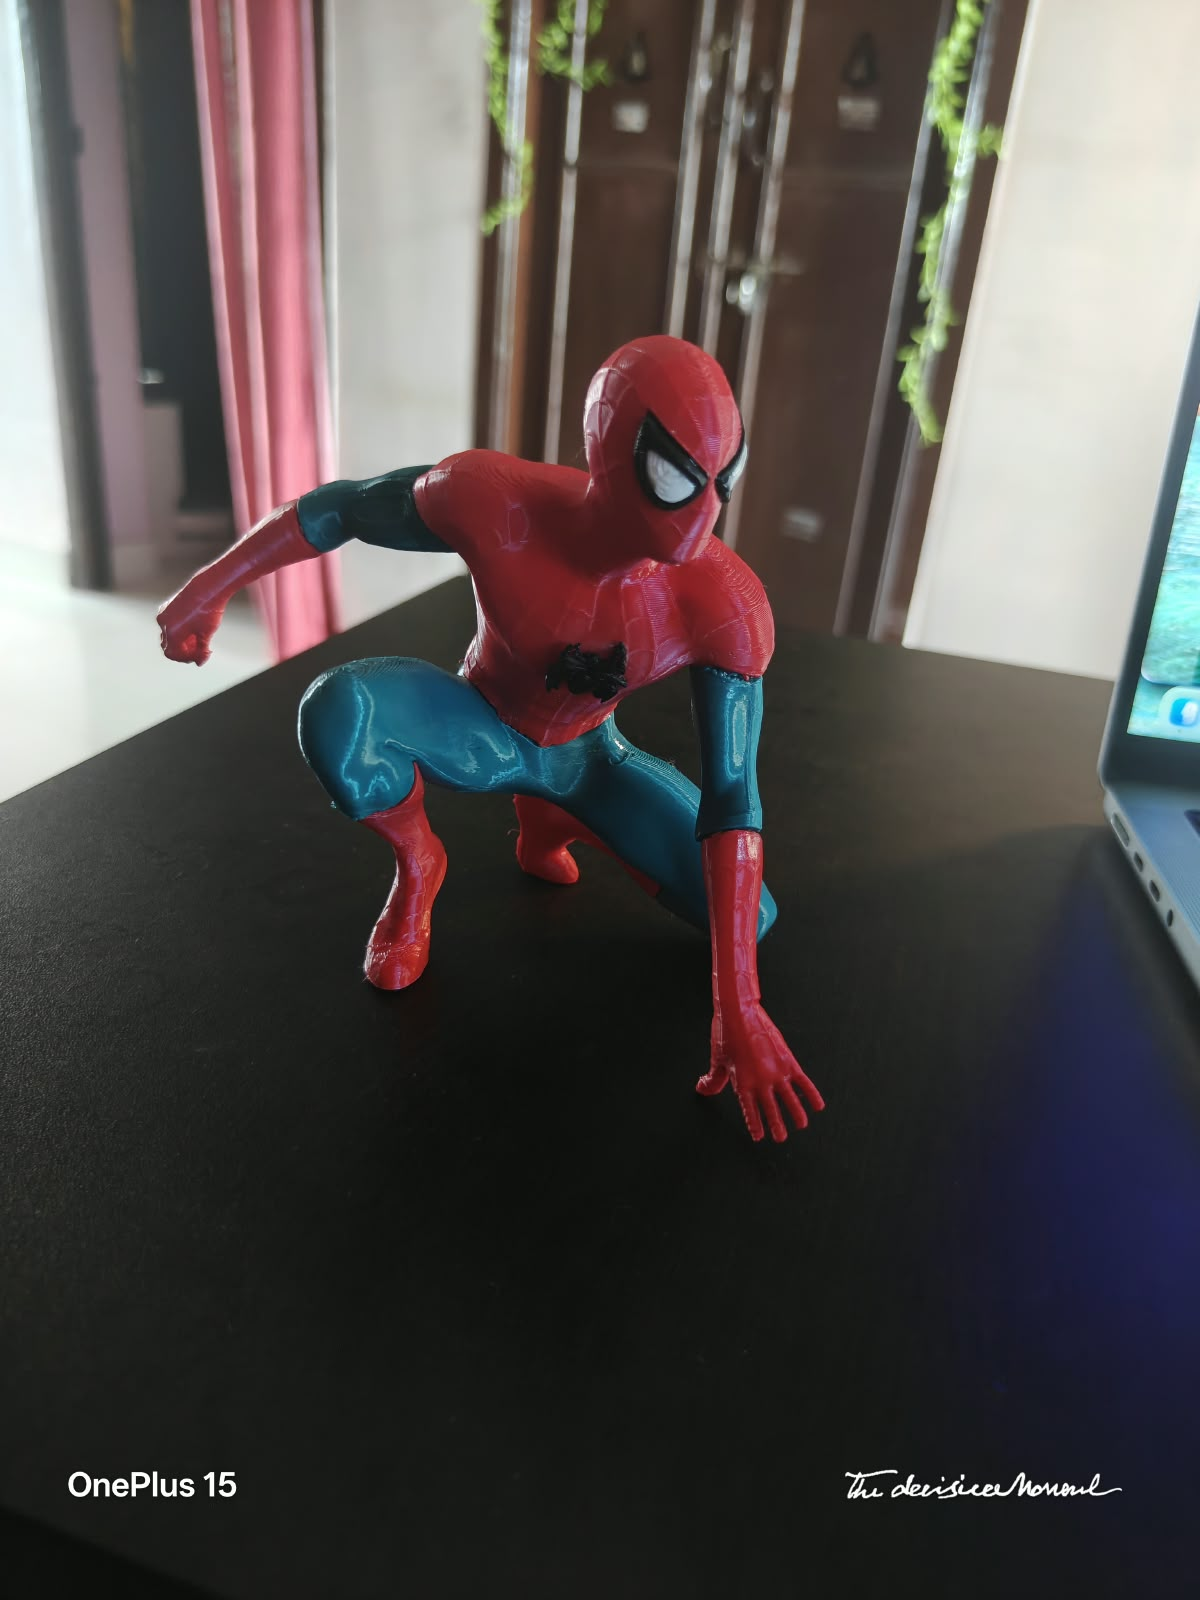
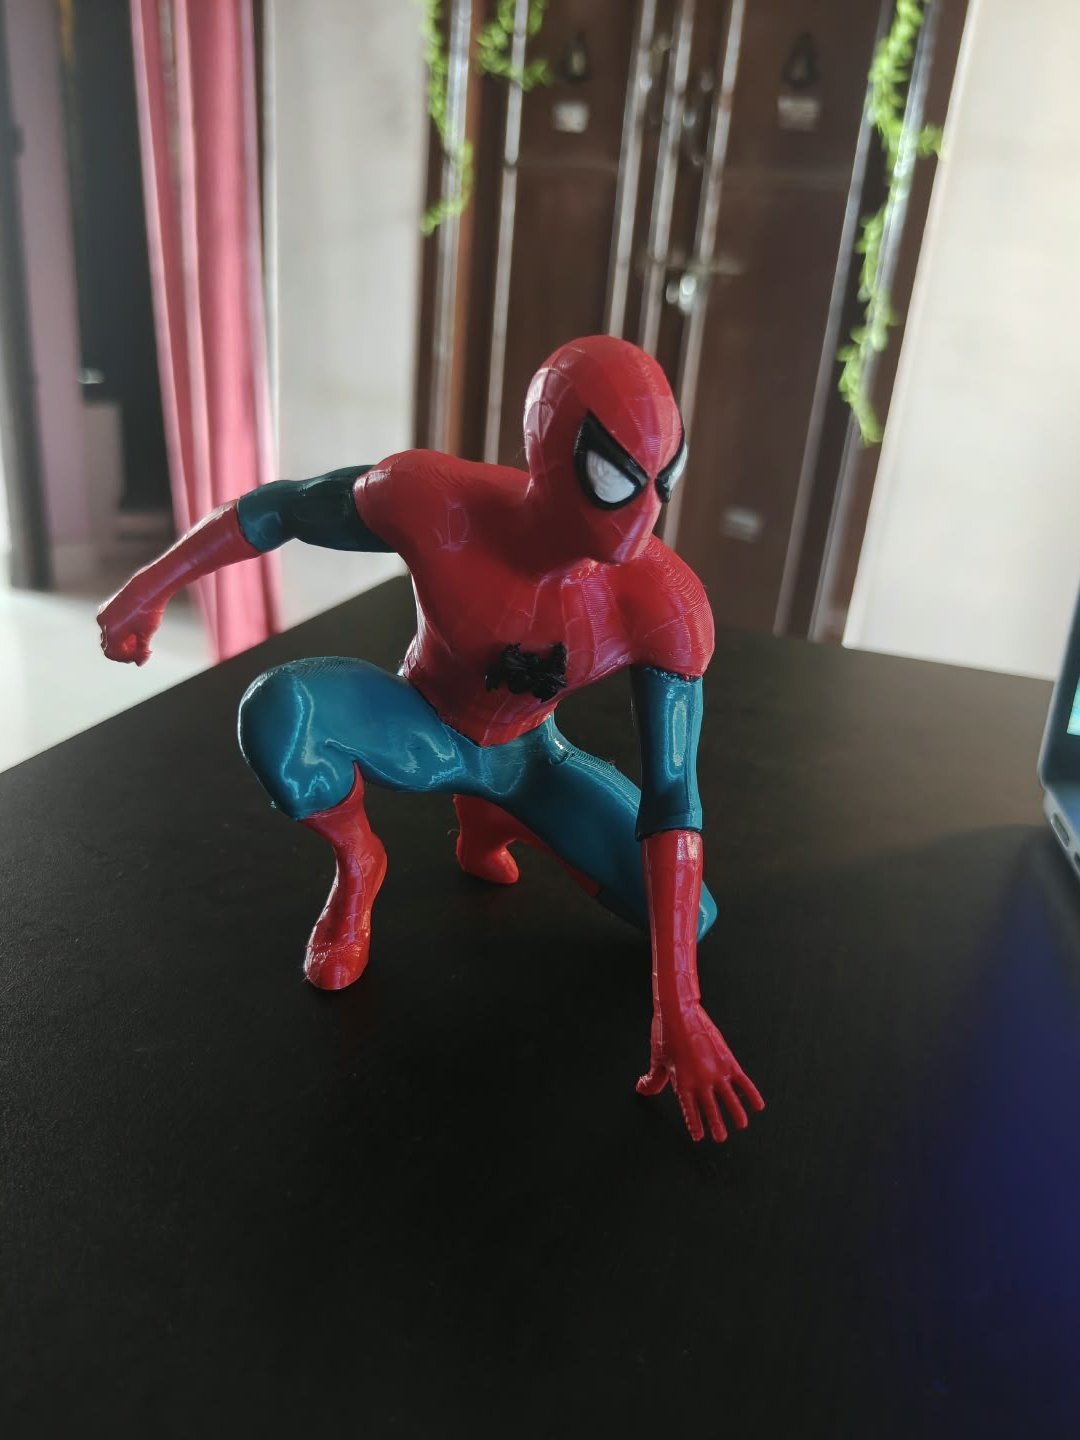
Hero: no horizontal scrolling anywhere
The three photos were a snap carousel. Horizontal scrolling was not wanted, so
they now fit the width instead: the two figurines abreast and the wall art across
the foot, 462px in total on a 390px phone. `overflow: visible` is stated rather
than left to the default, because that is the property whose absence would
quietly bring the scroller back.

The check follows the requirement. hero-geometry.mjs asserted the PAGE did not
scroll sideways, which the carousel passed - it scrolled INSIDE a page that did
not, which was exactly the thing being objected to. It now asserts the strip
itself does not scroll either, in both engines.

Removing the scroll also removed the reason for most of the special-casing. The
two figurines could not share a shape while spiderman_crouch.jpg needed a wider
card to hide the "OnePlus 15" watermark baked into its bottom 9%; side by side
that would have left one card taller than the other. So the watermark is cropped
out of the file instead - bottom 10% off, sides trimmed to hold 3:4 exactly,
re-encoded at quality 85 so it lands at 116KB against the original's 119KB.

That is the better fix regardless of layout: the watermark was on a product photo
everywhere it appeared, not just here, and cropping it once removes an entire
class of per-card CSS. Both figurines are now exactly 3:4 and stand identical.

Also recovers work that was orphaned when #14 merged before its second commit
[…]

diff --git a/public/assets/css/style.css b/public/assets/css/style.css
@@ -2879,72 +2879,58 @@ a.product-name:focus-visible { outline: 2px solid var(--orange); outline-offset:
 }
 
 /* ===== HERO PHOTOS ON SMALL SCREENS =====
-   THE PROBLEM, MEASURED. The mobile grid handed portrait photos landscape tiles:
-   the feature tile came out 359x169 (2.12:1) against a 3:4 photo, so it showed
-   35% of the subject — ribs, with the head and tail gone — and the two thumbs 52%
-   each at 174px wide. No object-position value fixes that; a portrait photo in a
-   landscape box is cropped by definition, so the box had to change.
+   NOTHING HERE SCROLLS SIDEWAYS. This was a snap carousel; horizontal scrolling
+   was not wanted, so the three photos are laid out to fit the width instead.
+   `overflow: visible` is stated rather than left to the default, because that is
+   the property whose absence would quietly bring the scroller back.
 
-   CARDS TAKE THE SHAPE OF THEIR PHOTO. Not a shared 3:4: the three hero products
-   are not all the same shape. Batman and Spider-Man are 3:4 portraits; the corner
-   staircase is wall art photographed 1.64 LANDSCAPE, and there is no portrait
-   version of it. Forcing a common ratio would cut 54% off the sides of that one —
-   the same failure as before, rotated. A fixed height with automatic width lets
-   each be whole, and means any future swap works whatever shape it arrives in.
+   The history is worth keeping, because the shape of the fix follows from it.
+   These tiles were originally landscape and the photos portrait, so the feature
+   card showed 35% of a dinosaur — ribs, head and tail gone — and the two thumbs
+   52% each at 174px wide. A portrait photo in a landscape box is cropped by
+   definition, so what changed was the box.
 
-   The links inside are focusable, so a keyboard reaches every card and the browser
-   scrolls each into view. That is why the scroller takes no tabindex of its own —
-   it would add a stop that does nothing. */
+   EVERY CARD STATES ITS RATIO. It must not be inferred from the image. Card
+   width:auto with an image at width:auto/height:100% asks the engine "how wide is
+   this picture at this height", and engines disagree: Chromium answered from the
+   aspect ratio, WebKit from the image's natural 1200px, which produced a card
+   half again too wide and a portrait cropped top and bottom — on every iPhone,
+   invisible to a developer in Chromium. test/browser/hero-geometry.mjs now fails
+   the build when the two engines disagree.
+
+   Two portraits abreast and the landscape piece across the foot. That grouping is
+   not decorative: the two figurines are 3:4 and the corner staircase is 1.64 wall
+   art with no portrait version, so a single shared shape would have to crop one
+   of them badly. */
 @media (max-width: 1024px) {
   .hero-visual {
-    display: flex;
-    /* Fixed height, automatic widths — this is what lets the cards differ. */
-    height: clamp(290px, 78vw, 400px);
-    width: auto;
-    max-width: none;
-    /* Full-bleed past the section's 4% padding so a card can sit half off-screen
-       and read as "there is more this way". scroll-padding realigns the snap. */
-    margin: 2.5rem -4% 0;
-    padding: 0 4% 0.6rem;
+    display: grid;
+    grid-template-columns: 1fr 1fr;
+    grid-template-rows: auto auto;
     gap: 0.7rem;
-    overflow-x: auto;
-    overscroll-behavior-x: contain;
-    scroll-snap-type: x mandatory;
-    scroll-padding-left: 4%;
-    -webkit-overflow-scrolling: touch;
-    scrollbar-width: none;
+    width: 100%;
+    max-width: 520px;
+    height: auto;
+    margin: 2.5rem auto 0;
+    padding: 0;
+    /* Said out loud: no scroller, in either axis. */
+    overflow: visible;
   }
-  .hero-visual::-webkit-scrollbar { display: none; }
 
-  /* EVERY CARD STATES ITS RATIO. It must not be inferred from the image.
-     `width: auto` on the card plus `width: auto; height: 100%` on the image asks
-     the engine "how wide is this picture at this height", and engines disagree:
-     Chromium answers from the aspect ratio and gives a 221px card, WebKit takes
-     the max-content contribution from the image's natural 1200px, hits the
-     max-width below, and produces a 335px card at 295px tall — a 3:4 portrait
-     `cover`-cropped top and bottom. Which is the bug this whole layout exists to
-     prevent, reappearing only on the engine every iPhone uses.
-     Stating the ratio makes the width arithmetic, not a negotiation. */
   .hero-shot {
-    flex: 0 0 auto;
-    height: 100%;
-    width: auto;
+    width: 100%;
+    height: auto;
+    /* Both figurines are exactly 3:4, so they stand the same height with no
+       ragged edge and no compromise ratio that crops one to suit the other. */
     aspect-ratio: 3 / 4;
-    /* Cannot bind now that width is derived from height, but kept as a floor in
-       case a future card is given a very wide ratio. */
-    max-width: 86vw;
-    scroll-snap-align: start;
     border-radius: 16px;
     overflow: hidden;
   }
 
-  /* The desktop grid placement and its two tile treatments no longer apply —
-     every card is the same kind of card now, just not the same size. */
+  /* The desktop grid placement and its two tile treatments do not apply here. */
   .hero-img-main,
   .hero-img-small { grid-column: auto; grid-row: auto; }
-  /* Fills the card, which now has a stated shape. `cover` in a box that matches
-     the picture's own ratio crops nothing — the card is doing the work, not the
-     image's intrinsic size. */
+
   .hero-img-main img,
   .hero-img-small img {
     width: 100%;
@@ -2954,55 +2940,27 @@ a.product-name:focus-visible { outline: 2px solid var(--orange); outline-offset:
     border-radius: 16px;
   }
 
-  /* Spider-Man alone carries a baked-in "OnePlus 15" watermark and signature
-     across the bottom ~9% of the frame. Batman and the staircase do not — checked
-     on the files, not assumed — so this is scoped to the one card that needs it
-     rather than cropping 15% off all three and taking Batman's feet with it.
-     Desktop never needed this: its tiles crop that band away already.
-     115% height against a clipped card sheds the bottom 13%, which clears the
-     watermark and makes this card a little wider than the other portrait. */
-  /* 0.86 rather than 0.75: a hair wider than the picture, so `cover` sheds 13%
-     of the height. Anchored to the top, that 13% comes off the bottom, which is
-     where the watermark is. Expressed as the card's shape for the same reason as
-     above — a scaled image would put the sizing back in the engine's hands. */
-  .hero-shot[data-hero="spiderman_crouch.jpg"] { aspect-ratio: 0.86; }
-  .hero-shot[data-hero="spiderman_crouch.jpg"] img { object-position: 50% 0; }
-
-  /* The landscape card is width-driven, not height-driven. At full strip height a
-     1.64 photo wants 484px on a 390px phone, so the shared max-width clamped it
-     and cropped 30% off the sides — the exact thing this layout exists to avoid.
-     Giving it a width and its own ratio lets it shrink in HEIGHT instead, which
-     costs nothing, and centring it stops the shorter card sitting oddly on the
-     baseline. */
+  /* Wall art, photographed landscape. Given the full width rather than squeezed
+     into a portrait cell, where it would lose 54% of its sides — and the
+     composition is the product. */
   .hero-shot[data-hero="poster_corner_staircase_v1.jpg"] {
-    width: 86vw;
-    max-width: 520px;
-    height: auto;
+    grid-column: 1 / -1;
     aspect-ratio: 1.64;
-    align-self: center;
-  }
-  .hero-shot[data-hero="poster_corner_staircase_v1.jpg"] img {
-    width: 100%;
-    height: 100%;
   }
 
   /* One caption size — there is no longer a big tile and a small one. */
-  .hero-shot-meta { border-radius: 0 0 16px 16px; padding: 1.5rem 0.85rem 0.75rem; }
-  .hero-img-small .hero-shot-meta { padding-top: 1.5rem; }
-  .hero-img-small .hero-shot-name { font-size: 0.82rem; -webkit-line-clamp: 2; }
-  .hero-img-small .hero-shot-price { font-size: 0.86rem; }
+  .hero-shot-meta { border-radius: 0 0 16px 16px; padding: 1.4rem 0.8rem 0.7rem; }
+  .hero-img-small .hero-shot-meta { padding-top: 1.4rem; }
+  .hero-img-small .hero-shot-name { font-size: 0.78rem; -webkit-line-clamp: 2; }
+  .hero-img-small .hero-shot-price { font-size: 0.82rem; }
 
   .hero-printer-badge {
     top: 8px; right: 8px;
-    font-size: 0.66rem;
-    padding: 0.3rem 0.6rem;
+    font-size: 0.64rem;
+    padding: 0.28rem 0.55rem;
   }
 }
 
-/* Desktop keeps its grid — a full-height feature tile beside two stacked — but
-   the lower right slot now holds a 1.64 landscape photo. In a square slot that
-   crops 45% off its sides, so the row is sized to the picture instead of the
-   picture to the row. */
 @media (min-width: 1025px) {
   .hero-visual { grid-template-rows: 1fr auto; }
   .hero-shot[data-hero="poster_corner_staircase_v1.jpg"] { aspect-ratio: 1.64; }
